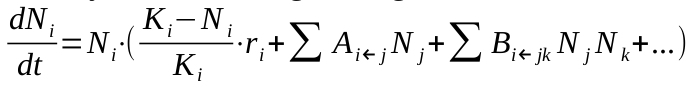
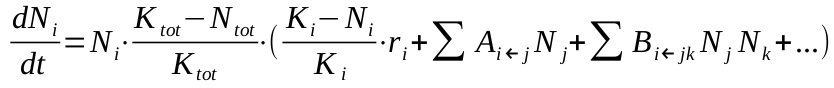
Add total maximum carrying capacity to gLVwK

diff --git a/simulations_gLVwK.py b/simulations_gLVwK.py
@@ -24,7 +24,7 @@ created for modelling higher order interactions in the model
 
 """
 
-def only_viable_gLVwK(n, maxtime, interactions, ri, carrying_capacities, starting_abundances):
+def only_viable_gLVwK(n, maxtime, interactions, ri, carrying_capacities, starting_abundances, total_carrying_capacity):
     np.seterr(all='raise')
     abundances = np.zeros((maxtime+1, n))
     abundances[0] = starting_abundances
@@ -32,9 +32,11 @@ def only_viable_gLVwK(n, maxtime, interactions, ri, carrying_capacities, startin
     nonviable = False
     while time < maxtime+1:
         steady = True
+        total_carrying_limit = (total_carrying_capacity-sum(abundances[time-1]))/total_carrying_capacity
         for species in range(0, n):
             try:
-                change_per_capita = ri[species] *((carrying_capacities[species]-abundances[time-1][species])/carrying_capacities[species])+ (sum(abundances[time-1]*interactions[species]))
+                change_per_capita = ri[species]*((carrying_capacities[species]-abundances[time-1][species])/carrying_capacities[species])+ (sum(abundances[time-1]*interactions[species]))
+                change_per_capita = total_carrying_limit*change_per_capita
                 if change_per_capita != 0 and steady:
                     steady = False
                 new_abundance = abundances[time-1][species] + int(abundances[time-1][species]*change_per_capita)
@@ -56,7 +58,7 @@ def only_viable_gLVwK(n, maxtime, interactions, ri, carrying_capacities, startin
         abundances[time+1:] = steady_abundances
     return abundances
 
-def gLVwK_with_extinction(n, maxtime, interactions, ri, carrying_capacities, starting_abundances):
+def gLVwK_with_extinction(n, maxtime, interactions, ri, carrying_capacities, starting_abundances, total_carrying_capacity):
     np.seterr(all='raise')
     abundances = np.zeros((maxtime+1, n))
     abundances[0] = starting_abundances
@@ -65,9 +67,11 @@ def gLVwK_with_extinction(n, maxtime, interactions, ri, carrying_capacities, sta
     while time < maxtime+1:
         i = 0
         steady = True
+        total_carrying_limit = (total_carrying_capacity-sum(abundances[time-1]))/total_carrying_capacity
         while i < len(livespecies):
             try:
-                change_per_capita = ri[livespecies[i]] *((carrying_capacities[livespecies[i]]-abundances[time-1][livespecies[i]])/carrying_capacities[livespecies[i]])+ (sum(abundances[time-1]*interactions[livespecies[i]]))
+                change_per_capita = ri[livespecies[i]]*((carrying_capacities[livespecies[i]]-abundances[time-1][livespecies[i]])/carrying_capacities[livespecies[i]])+ (sum(abundances[time-1]*interactions[livespecies[i]]))
+                change_per_capita = total_carrying_limit*change_per_capita
                 if change_per_capita != 0 and steady:
                     steady = False
                 new_abundance = abundances[time-1][livespecies[i]] + int(abundances[time-1][livespecies[i]]*change_per_capita)
@@ -87,22 +91,25 @@ def gLVwK_with_extinction(n, maxtime, interactions, ri, carrying_capacities, sta
         abundances[time+1:] = steady_abundances
     return abundances
 
-def test_gLVwK(n, maxtime, interactions, ri, carrying_capacities, starting_abundances):
+def test_gLVwK(n, maxtime, interactions, ri, carrying_capacities, starting_abundances, total_carrying_capacity):
     np.seterr(all='raise')
     abundances = np.zeros((maxtime+1, n))
     abundances[0] = starting_abundances
     time = 1
     while time < maxtime+1:
         steady = True
+        total_carrying_limit = (total_carrying_capacity-sum(abundances[time-1]))/total_carrying_capacity
         for species in range(0, n):
             try:
                 change_per_capita = ri[species] *((carrying_capacities[species]-abundances[time-1][species])/carrying_capacities[species])+ (sum(abundances[time-1]*interactions[species]))
+                change_per_capita = total_carrying_limit*change_per_capita
             except:
                 print(f"Time: {time}")
                 print(f"species: {species}")
                 print(f"abundances t-1: {abundances[time-1]}")
                 print(f"interactions: {interactions[species]}")
                 print(f"Carrying capasity: {carrying_capacities[species]}")
+                print(f"total carrying limit: {total_carrying_limit}")
                 return abundances
             if change_per_capita != 0 and steady:
                 steady = False

diff --git a/index_gLVwK.py b/index_gLVwK.py
@@ -17,6 +17,7 @@ mean is 100 CFU and desired std is 10 CFU the input should be 0.1
 n = 10
 #Maximum simulation time
 maxtime = 100
+total_carrying_capacity = 20000000
 
 ri = generate_growth_rates(n, 0.5, 0.1)
 
@@ -30,7 +31,7 @@ pairwise_interactions = adjust_selfinteractions(n, pairwise_interactions, -0.001
 
 carrying_capacities = calculate_carrying_capacities(ri, pairwise_interactions)
 
-abundances = only_viable_gLVwK(n, maxtime, pairwise_interactions, ri, carrying_capacities, starting_abundances)
+abundances = gLVwK_with_extinction(n, maxtime, pairwise_interactions, ri, carrying_capacities, starting_abundances, total_carrying_capacity)
 
 if type(abundances) == int:
     if abundances == -1:

diff --git a/README.md b/README.md
@@ -5,6 +5,7 @@ The current simulations are temperamental and especially adding the higher-order
 
 #### simple gLV
 ![simple gLV equation](equations/simple_gLV.png)
+
 Where:
 - i = species i in group of species
 - Ni = species i abundance
@@ -16,9 +17,15 @@ Where:
 #### gLV with K
 ![gLV with K](equations/gLV_with_K.png)
 
-Where Ki is maximum carrying capacity for species i and it can be found with equation:
+Where:
+- Ki is maximum carrying capacity for species i and it can be found with equation:
 
 ![define K](equations/def_K.png) 
+
+- Ktot is maximum total carrying capacity, maximum amount of bacteria the environment supports
+- Ntot is the total species abundance
+
+The model scales the species' intrinsic growth rates in relation to the species' carrying capacities so the species growth caps around their individual maximum carrying capacity unless another species affects it positively. The total per capita growth rate for each species is scaled in relation to the total maximum abundance and total maximum carrying capacity so that all species growth slows as the population approaches total maximum carrying capacity.
 
 ### Instructions
 *index_simple_gLV.py* contains the code needed for initiating a one-off simulation or simple gLV. Input desired parameters to functions and run program.
